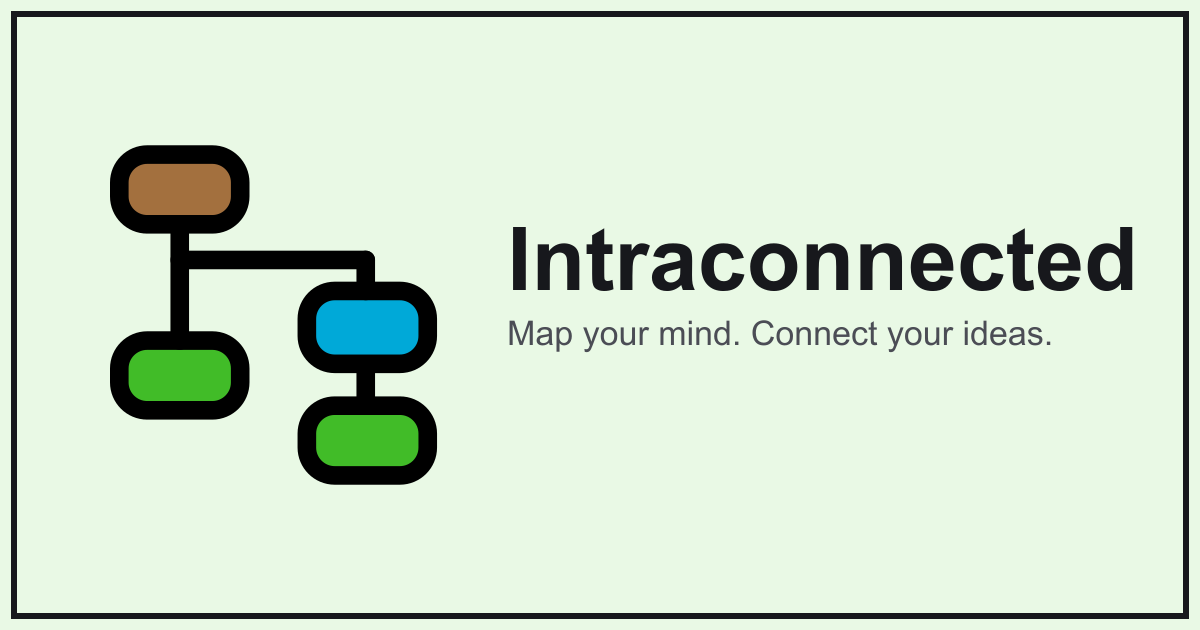
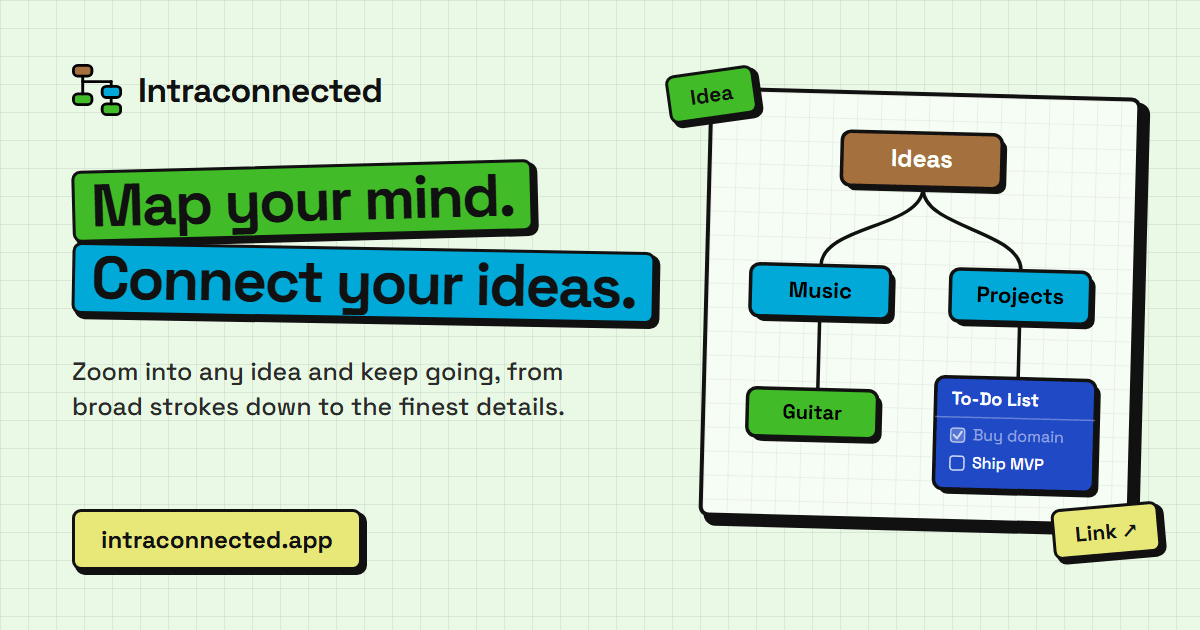
Updated OG image

diff --git a/index.html b/index.html
@@ -27,7 +27,7 @@
   <meta property="og:image" content="https://intraconnected.app/og-image.png" />
   <meta property="og:image:width" content="1200" />
   <meta property="og:image:height" content="630" />
-  <meta property="og:image:alt" content="Intraconnected mind mapping interface" />
+  <meta property="og:image:alt" content="Intraconnected: Map your mind. Connect your ideas. A mind map of nested ideas with a checklist and a link." />
   <meta property="og:locale" content="en_US" />
 
   <!-- Twitter Card -->
@@ -36,6 +36,7 @@
   <meta name="twitter:title" content="Intraconnected" />
   <meta name="twitter:description" content="A node-based mind map where you can zoom into any idea and explore its subtree. Organize your thinking with drag-and-drop, checklists, and links." />
   <meta name="twitter:image" content="https://intraconnected.app/og-image.png" />
+  <meta name="twitter:image:alt" content="Intraconnected: Map your mind. Connect your ideas. A mind map of nested ideas with a checklist and a link." />
 
   <!-- JSON-LD Structured Data -->
   <script type="application/ld+json">

diff --git a/programmer-docs/DEVLOG.md b/programmer-docs/DEVLOG.md
@@ -4,6 +4,9 @@ Personal record of every update. Not displayed to users. See `programmer-docs/CH
 
 ---
 
+## Social Share Image Redesign — 2026-10-10
+- `public/og-image.png` redrawn in the landing page's style: grid background, Space Grotesk, the hero's "Map your mind. / Connect your ideas." marker highlights, a small mind map card (parents, a leaf, a checklist) with neobrutal borders and shadows, and an `intraconnected.app` pill. Was a system font on a flat background. Rendered from HTML with headless Chrome at 1200×630, palette-compressed (45 KB). Alt text updated; added `twitter:image:alt`.
+
 ## Build Warnings Cleared — 2026-10-10
 - `npm run build` is warning-free: `darken()` → `color.adjust(..., $lightness: -N%)` in `profileModal.scss` (deprecated, removed in Dart Sass 3), and declarations written after nested rules moved above them in `idea.scss` (`.ideaNodes`, idea node, `.sort-btn`) and `mobileMindMap.scss` (`position: relative` on the bottom-bar button) — Sass is changing how it orders those. Compiled CSS is byte-identical before and after.
 
